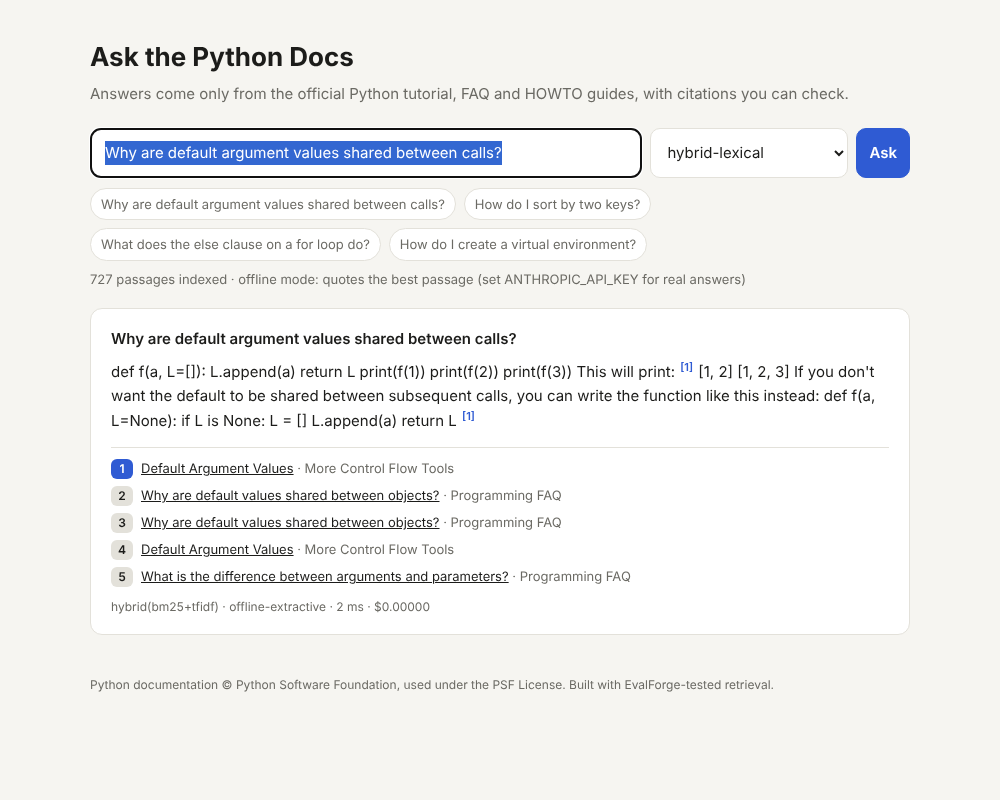
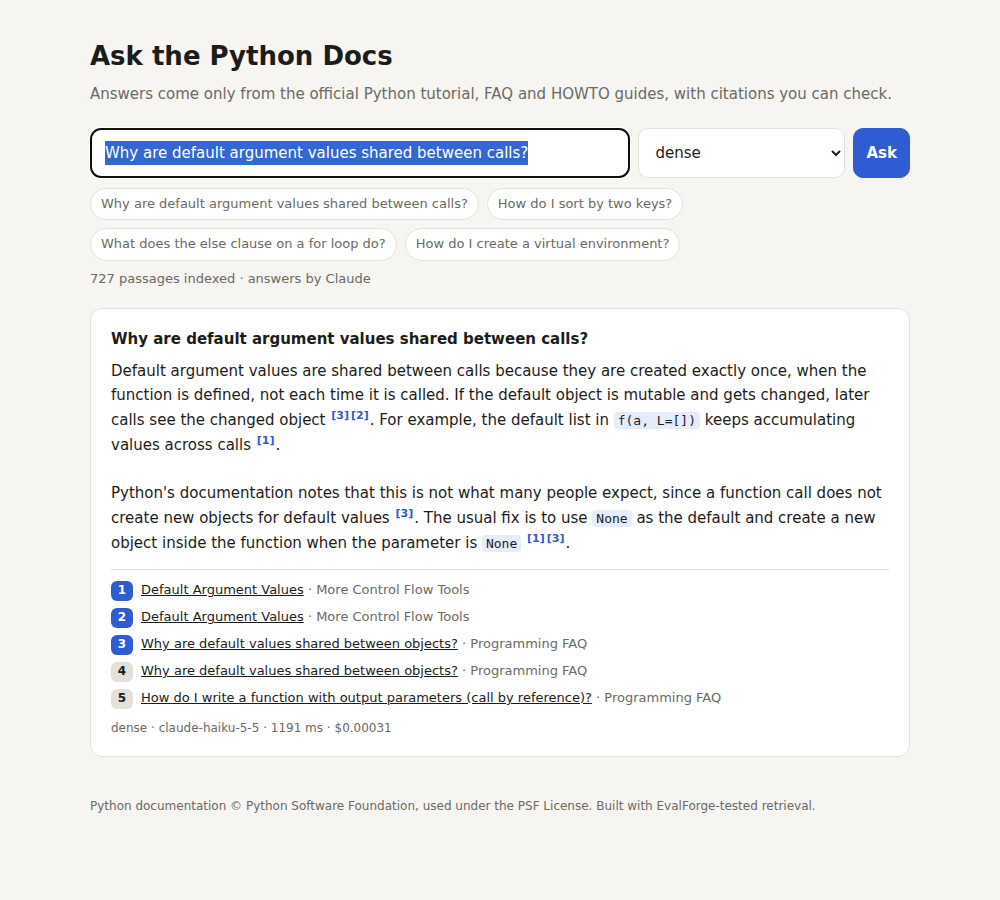
README: real results from the retrieval benchmark and end-to-end evaluation
Adds the screenshot of a real Claude answer and the results tables from the
GitHub Actions runs (retrieval run 44135192700, end-to-end run 44136492498).

Claude-Session: https://claude.ai/code/session_019YRevS4makHsq8uEUuEfBj

Changed region(s): [[0.093, 0.3438, 0.899, 0.8125], [0.093, 0.0312, 0.93, 0.3125], [0.093, 0.8438, 0.806, 0.9062]]

diff --git a/README.md b/README.md
@@ -16,7 +16,43 @@ Most RAG demos stop at "it answers questions." This one asks **how well, and whi
 ## Results
 
 <!-- RESULTS:START -->
-Results are produced by the GitHub Actions workflows in `.github/workflows/` and recorded here.
+### Retrieval: did search find the section that answers the question?
+
+32 in-scope questions, top-5 passages ([full results](results/retrieval.md)).
+
+| Retriever | Recall@1 | Recall@5 | MRR@10 | Time / query |
+|---|---|---|---|---|
+| BM25 (keywords) | 40.6% | 78.1% | 0.559 | <1 ms |
+| TF-IDF | 43.8% | 81.2% | 0.582 | 1 ms |
+| **Dense (embeddings)** | **71.9%** | **90.6%** | **0.797** | 8 ms |
+| Hybrid (BM25 + dense) | 68.8% | 84.4% | 0.769 | 7 ms |
+| BM25 + Claude re-rank | 59.4% | 81.2% | 0.686 | 1.1 s |
+| Hybrid + Claude re-rank | 71.9% | 87.5% | 0.796 | 1.1 s |
+| Dense + Claude re-rank | 71.9% | 90.6% | 0.807 | 1.1 s |
+
+### End to end: are the answers correct, grounded and honest?
+
+38 questions (32 in scope, 6 out of scope). Answers by Claude Haiku 5.5, graded by Claude Sonnet 5.5 through EvalForge ([full results](results/end_to_end.md)).
+
+| System | Correct | Grounded in sources | Cites sources | Declines out-of-scope | Median latency | Cost / question |
+|---|---|---|---|---|---|---|
+| No retrieval (closed-book) | **100%** | 0% | 12%\* | **0%** | 1.5 s | $0.0001 |
+| BM25 | 81% | 94% | 100% | 100% | 1.5 s | $0.0004 |
+| **Dense (default)** | **91%** | **100%** | **100%** | **100%** | 1.6 s | **$0.0003** |
+| Hybrid | 91% | 100% | 100% | 100% | 1.6 s | $0.0004 |
+| Dense + re-rank | 91% | 100% | 100% | 100% | 2.6 s | $0.0010 |
+
+\* The closed-book model cites nothing; the citation check matched list output like `[1]` in its code.
+
+### What the evaluation found
+
+1. **Without retrieval, Claude already knew the answers, but it couldn't be trusted to stay in scope.** It answered all 32 in-scope questions correctly from its own knowledge. It also answered all 6 out-of-scope questions confidently, with no sources, including an outdated "latest NumPy version". The RAG versions declined all 6 and cited the exact section for every answer. Here, retrieval adds **trust and traceability**, not raw accuracy.
+2. **Wrong answers came from retrieval misses, not hallucination.** With dense retrieval, answers were 100% grounded in the retrieved passages. Two of the three incorrect answers were questions where search missed the right section ("generators", "keyword-only arguments"), and Claude correctly said the provided docs didn't cover them. The third found the right section but not the part showing `json.dump()`. Better retrieval, not a bigger model, is the lever.
+3. **Hybrid search was not better than embeddings alone.** Rank fusion gives keyword search an equal vote, and on paraphrased questions it pulls in wrong sections (recall@5 84% vs. 91%). The common advice to "always use hybrid" didn't hold for this data.
+4. **Re-ranking helps weak retrievers, not strong ones.** Claude re-ranking lifted BM25's recall@1 from 41% to 59%, but didn't change dense recall at all, while tripling cost and adding a second of latency. It can only reorder what the first stage found, so it's off by default.
+5. **It's cheap.** The default pipeline costs about $0.0003 per answer. The whole evaluation (190 answers plus about 350 judge calls) cost about $1.50, mostly for the judge.
+
+These are 38 questions, so differences of a few points are within noise; the large gaps (no retrieval vs. RAG on scope, BM25 vs. dense on recall) are the reliable findings.
 <!-- RESULTS:END -->
 
 ## How it works
@@ -41,7 +77,7 @@ flowchart LR
    - **Hybrid**: reciprocal rank fusion of BM25 and dense rankings (no score tuning needed).
    - **Re-ranking**: Claude Haiku scores the top 15 candidates for relevance and re-orders them.
 3. **Generation** (`ragassist/pipeline.py`): Claude Haiku 5.5 answers from numbered passages, cites them as `[n]`, and is told to say when the passages don't contain the answer. A **closed-book** mode (no documents) is the baseline.
-4. **App** (`ragassist/server.py`): a small web chat and JSON API using only the standard library.
+4. **App** (`ragassist/server.py`): a small web chat and JSON API using only the standard library. The default retriever is dense, the best performer in the benchmark.
 
 ## How it's evaluated
 
@@ -55,7 +91,7 @@ Two layers of evaluation:
 | Layer | What it measures | Cost |
 |---|---|---|
 | Retrieval benchmark (`pydocs-rag bench`) | Recall@1/3/5 and MRR: does each retriever rank a gold section near the top? | Free (re-ranking rows: ~$0.02) |
-| End-to-end (EvalForge, `eval/rag_suite.yaml`) | For each system: **correct** (Claude Sonnet judge vs. reference), **grounded** (judge sees the retrieved passages), **key facts**, **cites sources**, **retrieved the right section**, **declines** out-of-scope questions | ~$2-3 per run |
+| End-to-end (EvalForge, `eval/rag_suite.yaml`) | For each system: **correct** (Claude Sonnet judge vs. reference), **grounded** (judge sees the retrieved passages), **key facts**, **cites sources**, **retrieved the right section**, **declines** out-of-scope questions | ~$1.50 per run |
 
 The EvalForge suite is generated from `questions.yaml` by `eval/build_suite.py`, so there is one source of truth. It uses EvalForge's `python` provider to call the whole RAG pipeline, and its context-aware judge to check faithfulness.
 
@@ -105,7 +141,7 @@ tests/            pytest: ingestion, retrievers, pipeline, server, eval data
 ## Design decisions
 
 - **Section-aware chunks with titles.** Each chunk is indexed with its page and section titles, and FAQ sections are themselves questions, which helps both keyword and semantic matching.
-- **Reciprocal rank fusion** for hybrid search, because BM25 and cosine scores are on different scales and fusing ranks needs no weights.
+- **Dense retrieval by default**, chosen from the benchmark rather than assumed. Hybrid search (reciprocal rank fusion) and re-ranking are available, but measured as no better on this data.
 - **A cheap model for answers, a stronger one for judging.** Haiku 5.5 answers at a fraction of a cent per question; Sonnet 5.5 grades.
 - **Evaluations never silently use the offline fallback.** The EvalForge entry point refuses to run without an API key unless told to.
 

diff --git a/results/end_to_end.md b/results/end_to_end.md
@@ -1,0 +1,11 @@
+# End-to-end evaluation
+
+EvalForge run `20261117-173005-a8aa7f` (2026-11-17T17:30:05+00:00). Judge cost for the whole run: $1.35.
+
+| System | Correct | Grounded in sources | Key facts | Cites sources | Retrieved right section | Declines out-of-scope | Median latency | Cost / question |
+|---|---|---|---|---|---|---|---|---|
+| closed-book | 100% | 0% | 100% | 12% | 0% | 0% | 1.5 s | $0.0001 |
+| bm25 | 81% | 94% | 91% | 100% | 78% | 100% | 1.5 s | $0.0004 |
+| dense | 91% | 100% | 100% | 100% | 91% | 100% | 1.6 s | $0.0003 |
+| hybrid | 91% | 100% | 94% | 100% | 84% | 100% | 1.6 s | $0.0004 |
+| dense+rerank | 91% | 100% | 97% | 100% | 91% | 100% | 2.6 s | $0.0010 |

diff --git a/results/retrieval.md b/results/retrieval.md
@@ -1,0 +1,14 @@
+# Retrieval benchmark
+
+32 answerable questions, 727 chunks. GitHub Actions run 44135192700 (Nov 17, 2026).
+
+| Retriever | Recall@1 | Recall@3 | Recall@5 | MRR@10 | ms/query |
+|---|---|---|---|---|---|
+| bm25 | 40.6% | 71.9% | 78.1% | 0.559 | 0 |
+| tfidf | 43.8% | 62.5% | 81.2% | 0.582 | 1 |
+| hybrid-lexical | 50.0% | 75.0% | 81.2% | 0.616 | 1 |
+| dense | 71.9% | 90.6% | 90.6% | 0.797 | 8 |
+| hybrid | 68.8% | 81.2% | 84.4% | 0.769 | 7 |
+| bm25+rerank | 59.4% | 78.1% | 81.2% | 0.686 | 1134 |
+| dense+rerank | 71.9% | 90.6% | 90.6% | 0.807 | 1076 |
+| hybrid+rerank | 71.9% | 84.4% | 87.5% | 0.796 | 1139 |
